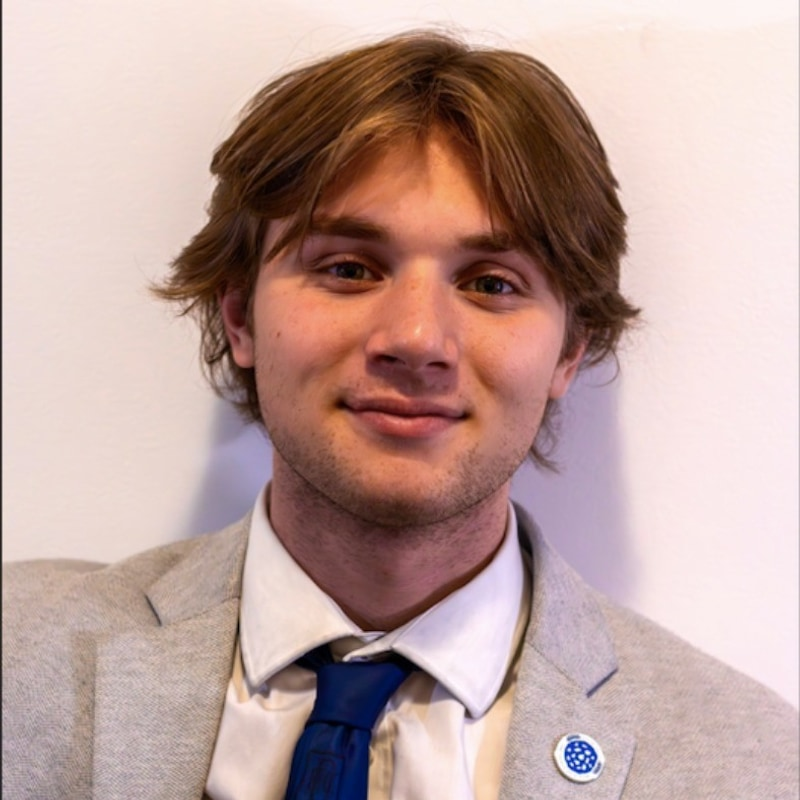
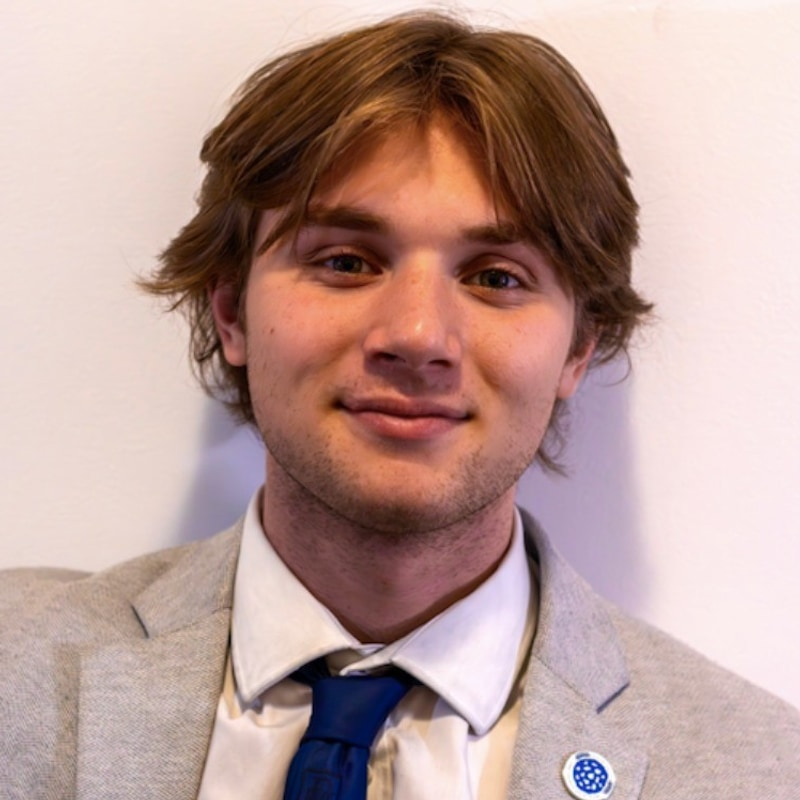
Board cards: two-line titles, abbreviated majors, spacing and crop fixes
Titles now flow on two lines
- `detail` is split into `affiliation` (workplace, founder or D1 status) and
  `major`, rendered one per line.
- Degrees abbreviated: Business Admin to BA, International Business to IB.
- Oliver has no affiliation, so his card omits the line rather than rendering
  an empty row.

Fixed a real CSS bug while moving the socials up
- .board-body used var(--space-5) and var(--space-7), neither of which exists
  in the scale. An undefined var() makes the whole padding declaration invalid
  at computed-value time, so the card body had NO padding at all and the
  social marks sat flush against the card's bottom edge.
- Now 24px sides and 32px bottom, both real tokens. Verified in the browser:
  computed padding is 0px 24px 32px 24px and the marks sit 33px clear of the
  card edge.
- Audited every custom property in the stylesheet as a result. The only other
  var() without a definition is --header-h, which Layout sets at runtime and
  which already carries a 65px fallback.

Alex's headshot re-cropped
- The master had a four-pixel dark vignette down its left edge, measured at
  brightness 34 against 209 for the rest of the column.
- Re-cropped from the original at a 5% zoom (20px inset per side on the 788px
  source, resized back to 800). Left edge now reads 209, matching the rest.
- Only his nine derivatives regenerated; the mtime check left the other six
  members untouched.

Verified: build and prerender pass; lint clean; detector zero findings; all
[…]

diff --git a/src/lib/board.js b/src/lib/board.js
@@ -3,11 +3,15 @@
  *
  * Two Vice Presidents is intentional, not a typo.
  *
- * SPEC CONFLICT (flagged, not silently resolved): revision 2 §3.3 says roster
- * copy "stays exactly as it is", while §0.1 says the punctuation cleanup runs
- * across "every board bio". §0.1 names board bios explicitly and §0 is ordered
- * first, so the em dashes in `detail` became commas. Everything else about the
- * roster, including order and wording, is untouched.
+ * Each card reads on two lines: `affiliation` (where they work, founded, or
+ * compete) then `major`. Degrees are abbreviated, Business Admin to BA and
+ * International Business to IB, so the second line stays to one line at the
+ * card's width. Oliver has no affiliation line and the card simply omits it
+ * rather than rendering an empty row.
+ *
+ * SPEC NOTE: revision 2 §0.1 removed dashes used as prose punctuation, which
+ * is why the majors read "BA, Finance" rather than "BA - Finance". Hyphenated
+ * compounds like Pre-Law are untouched, as that rule requires.
  *
  * Headshots: masters live in `board-src/<slug>.jpg` and are never deployed.
  * scripts/build-headshots.mjs turns them into AVIF/WebP/JPEG derivatives in
@@ -24,7 +28,8 @@ export const BOARD = [
     slug: "jackson-lamoureux",
     name: "Jackson Lamoureux",
     role: "President",
-    detail: "Founder @ Logicull | Business Admin, Entrepreneurial Startups",
+    affiliation: "Founder @ Logicull",
+    major: "BA, Entrepreneurial Startups",
     photo: true,
     linkedin: "https://www.linkedin.com/in/jacksonlamoureux/",
     email: "lamoureux.ja@northeastern.edu",
@@ -34,7 +39,8 @@ export const BOARD = [
     slug: "lucas-salzgeber",
     name: "Lucas Salzgeber",
     role: "Vice President",
-    detail: "Founder @ LSstacks | Business Admin, Finance + AI",
+    affiliation: "Founder @ LSstacks",
+    major: "BA, Finance + AI",
     photo: true,
     linkedin: "https://www.linkedin.com/in/lucas-salzgeber/",
     email: "salzgeber.l@northeastern.edu",
@@ -43,7 +49,8 @@ export const BOARD = [
     slug: "oliver-ward",
     name: "Oliver Ward",
     role: "Vice President",
-    detail: "Business Admin, Entrepreneurial Startups",
+    affiliation: null,
+    major: "BA, Entrepreneurial Startups",
     photo: true,
     linkedin: "https://www.linkedin.com/in/oliver-ward-4929222bb/",
     email: "ward.ol@northeastern.edu",
@@ -52,7 +59,8 @@ export const BOARD = [
     slug: "smyan-sengupta",
     name: "Smyan Sengupta",
     role: "Head of Partnerships",
-    detail: "Prev. MSAT Modeling @ Pfizer | CS + AI",
+    affiliation: "Prev. MSAT Modeling @ Pfizer",
+    major: "CS + AI",
     photo: true,
     linkedin: "https://www.linkedin.com/in/smyan-sengupta/",
     email: "sengupta.sm@northeastern.edu",
@@ -61,7 +69,8 @@ export const BOARD = [
     slug: "anthony-jones",
     name: "Anthony Jones",
     role: "Head of Finance",
-    detail: "D1 Track & Field | Business Admin, Finance + Pre-Law",
+    affiliation: "D1 Track & Field",
+    major: "BA, Finance + Pre-Law",
     photo: true,
     linkedin: "https://www.linkedin.com/in/anthonydavidjones/",
     email: "jones.anth@northeastern.edu",
@@ -70,7 +79,8 @@ export const BOARD = [
     slug: "kristine-min",
     name: "Kristine Min",
     role: "Head of Social Media",
-    detail: "UGC Creator, 20k on TikTok | International Business + Finance",
+    affiliation: "UGC Creator, 20k on TikTok",
+    major: "IB + Finance",
     photo: true,
     linkedin: "https://www.linkedin.com/in/kristine-min/",
     email: "min.kr@northeastern.edu",
@@ -80,7 +90,8 @@ export const BOARD = [
     slug: "alex-green",
     name: "Alex Green",
     role: "Head of Events",
-    detail: "Prev. Analyst @ Gordon Brothers | Business Admin, Finance",
+    affiliation: "Prev. Analyst @ Gordon Brothers",
+    major: "BA, Finance",
     photo: true,
     linkedin: "https://www.linkedin.com/in/greena1/",
     email: "green.a1@northeastern.edu",

diff --git a/src/index.css b/src/index.css
@@ -700,8 +700,12 @@ a {
 /* Pulled up so the text begins inside the fade's solid-ink tail, which is
    what closes the gap between photo and body. Centred as a block: role, name,
    detail and the social marks all share one axis. */
+/* --space-5 and --space-7 do not exist in the scale. Using them made the whole
+   padding declaration invalid at computed-value time, so the body had NO
+   padding at all and the social marks sat flush against the card's bottom
+   edge. These are real tokens. */
 .board-body {
-  padding: 0 var(--space-5) var(--space-7);
+  padding: 0 var(--space-6) var(--space-8);
   margin-top: calc(-1 * var(--space-6));
   position: relative;
   text-align: center;
@@ -732,11 +736,19 @@ a {
   font-weight: 500;
   line-height: 1.5;
   color: #d8d4cc;
-  /* Held short and centred so it breaks into balanced lines rather than one
-     long ragged run. */
-  max-width: 28ch;
+  max-width: 30ch;
   margin-inline: auto;
+}
+
+/* Affiliation and major each own a line. Balanced so a long affiliation wraps
+   evenly instead of leaving one word stranded. */
+.board-detail__line {
+  display: block;
   text-wrap: balance;
+}
+
+.board-detail__line + .board-detail__line {
+  margin-top: 2px;
 }
 
 .board-link {

diff --git a/src/components/BoardCard.jsx b/src/components/BoardCard.jsx
@@ -45,8 +45,18 @@ const splitName = (name) => {
  * fetched on a normal first visit.
  */
 const BoardCard = ({ member }) => {
-  const { slug, name, role, detail, photo, linkedin, email, github, tiktok } =
-    member;
+  const {
+    slug,
+    name,
+    role,
+    affiliation,
+    major,
+    photo,
+    linkedin,
+    email,
+    github,
+    tiktok,
+  } = member;
 
   const [firstName, surname] = splitName(name);
 
@@ -96,7 +106,14 @@ const BoardCard = ({ member }) => {
             {firstName}
             {surname && <span className="board-name__surname">{surname}</span>}
           </h3>
-          <p className="board-detail mt-3">{detail}</p>
+          {/* Affiliation then major, one per line. Members without an
+              affiliation simply omit the line rather than leaving a gap. */}
+          <p className="board-detail mt-3">
+            {affiliation && (
+              <span className="board-detail__line">{affiliation}</span>
+            )}
+            <span className="board-detail__line">{major}</span>
+          </p>
 
           {socials.length > 0 && (
             <ul className="board-socials mt-5 list-none p-0">
